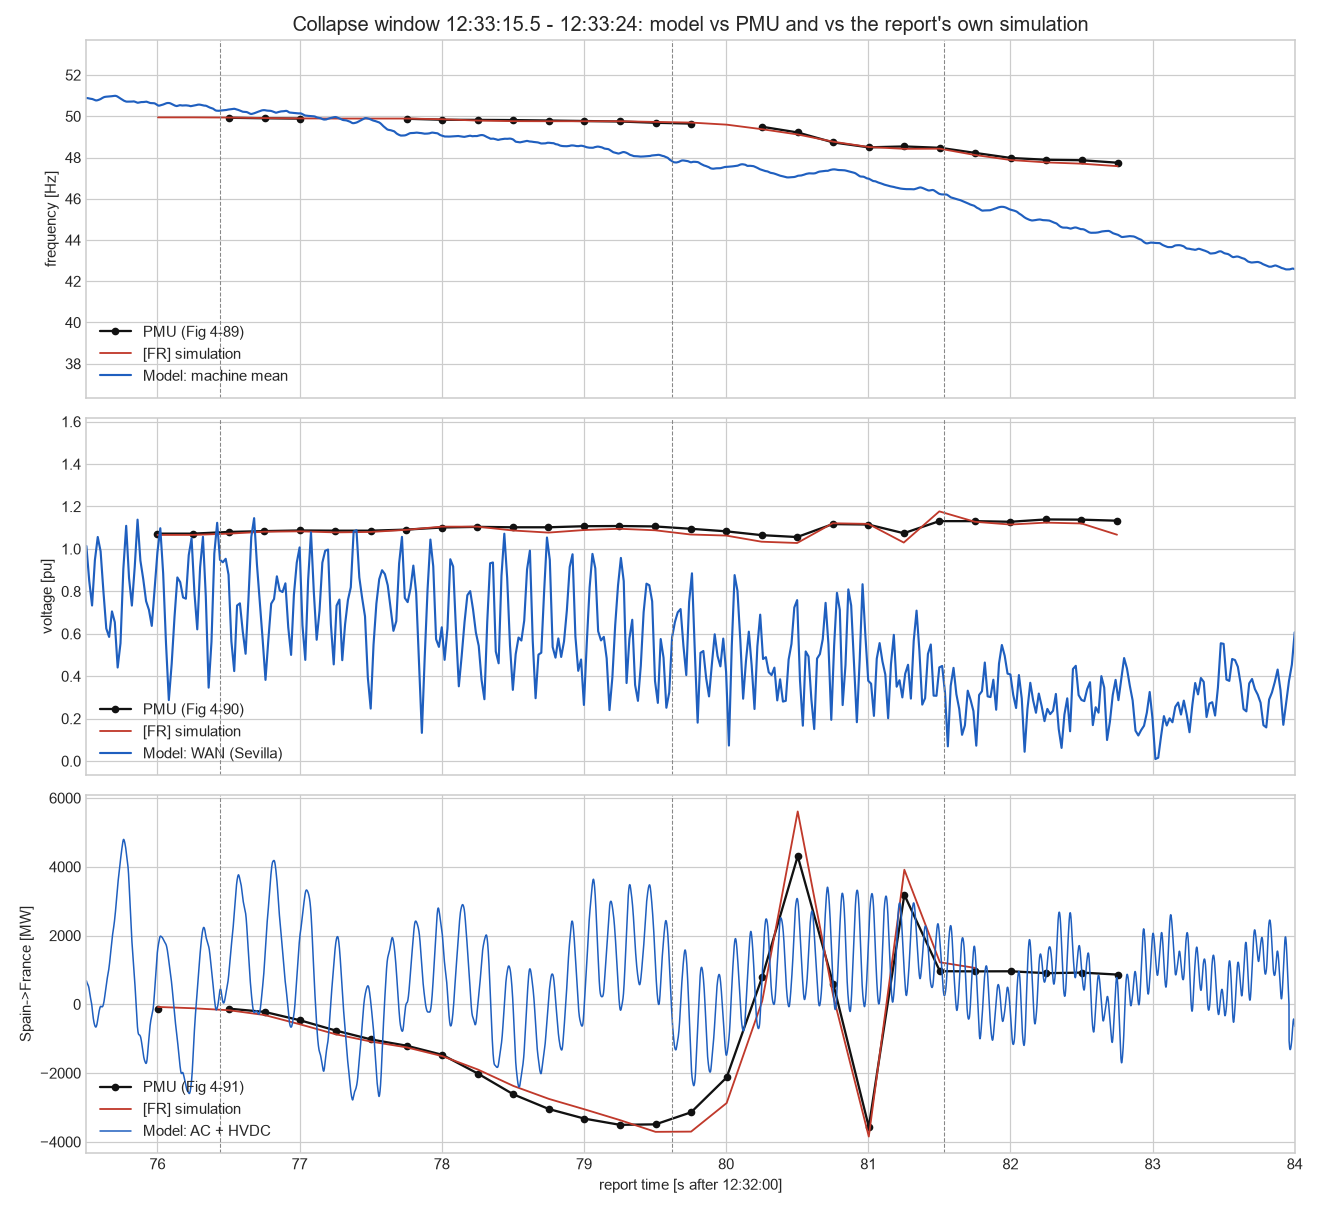
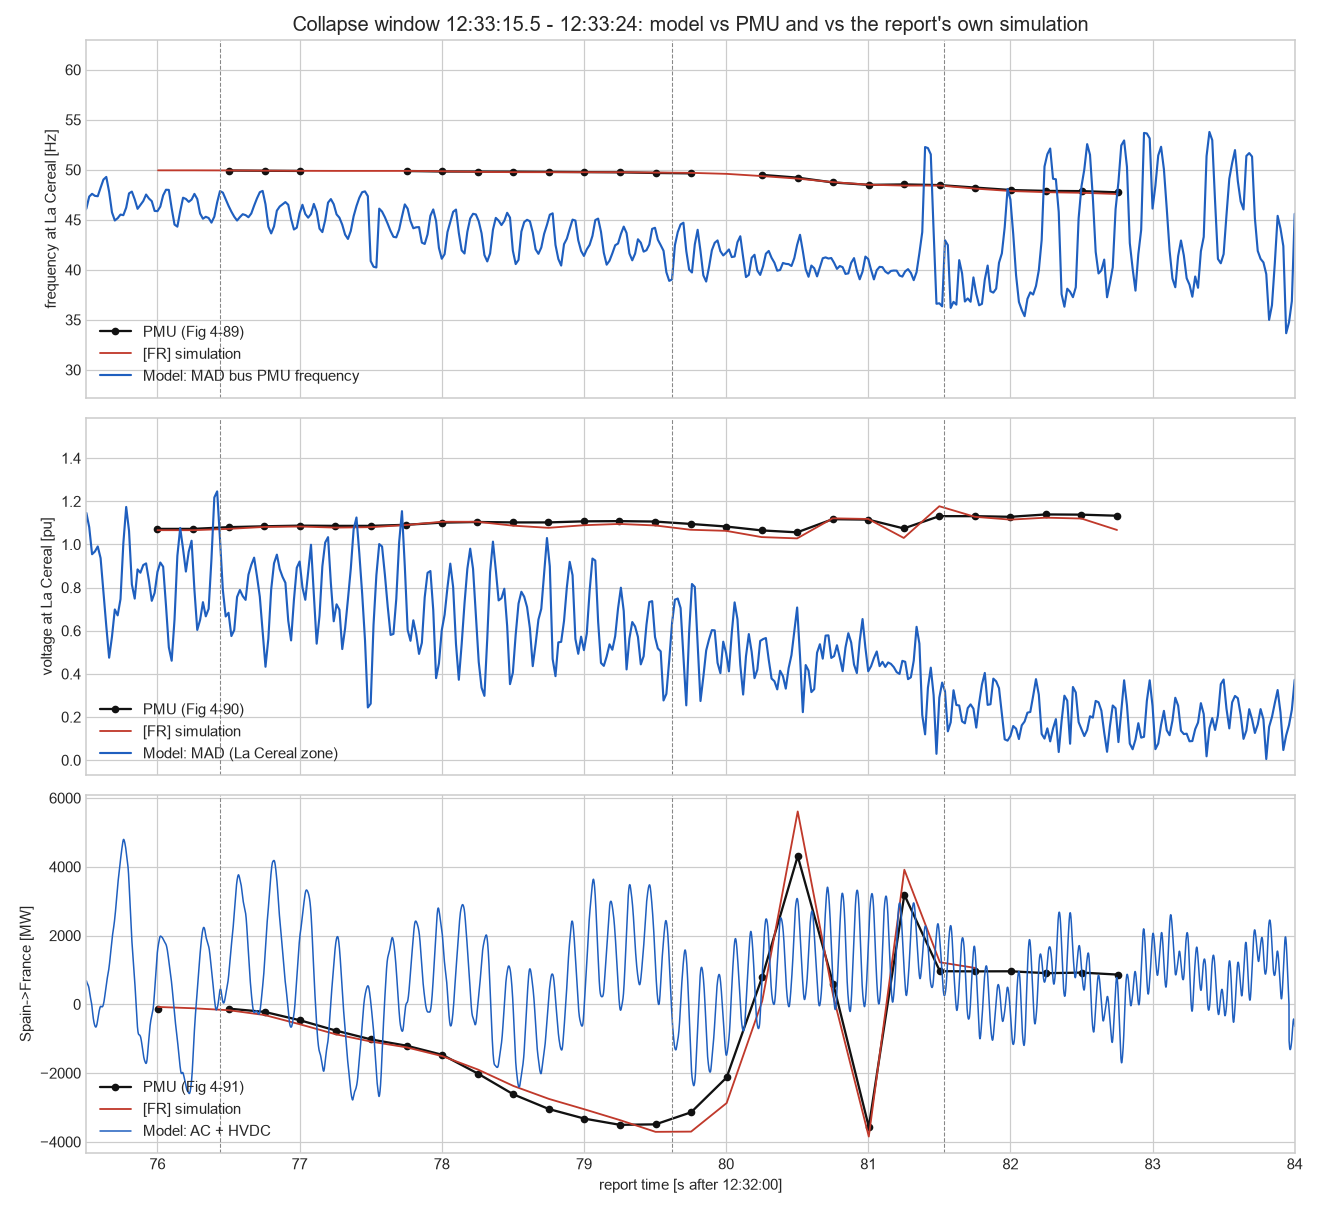
fidelity_v2: ascii in the primary-score line

diff --git a/iberia_eq/pscad/fidelity_v2.py b/iberia_eq/pscad/fidelity_v2.py
@@ -307,7 +307,7 @@ for tier, name, rows in SIG:
         if d and ph != "all": PS.setdefault(ph.split()[0], []).append(min(d["rmse"] / sc, 3.0))
 pss = "  ".join(f"{k} {np.mean(v):.2f}" for k, v in PS.items())
 ax[0].set_title(f"Signal fidelity per phase (P primary = system level, bold)\nPRIMARY SCORE (mean RMSE/tol, lower is better): {pss}", fontsize=10)
-M(f"\n**Primary score** (mean RMSE/tolerance of the system-level metrics, lower is better, ≤ 0.5 good, > 1 poor): {pss}")
+M(f"\n**Primary score** (mean RMSE/tolerance of the system-level metrics, lower is better, <= 0.5 good, > 1 poor): {pss}")
 seq_err = [abs(s["tmod"] - s["trep"]) for s in SEQ if np.isfinite(s["tmod"])]
 cats = ["plant trips\nreproduced", "defence-plan\nthresholds reached", "median |timing\nerror| [s]"]
 dpr = sum(np.isfinite(tm) for _, _, tm in DP[:7])

diff --git a/iberia_eq/pscad/fid_rp_cascade.md b/iberia_eq/pscad/fid_rp_cascade.md
@@ -134,3 +134,7 @@ Table 3-3 trips reproduced: 0 of 11
 | minimum frequency [Hz] | 47.408 | 37.137 |
 | maximum 400 kV voltage [kV] | 446.779 | 619.231 |
 | Carmona voltage at 12:32:56 [kV] | 426.915 | 419.621 |
+
+**Primary score** (mean RMSE/tolerance of the system-level metrics, lower is better, <= 0.5 good, > 1 poor): P0 0.36  P1 2.54  P2 3.00  P3 3.00
+
+figures: iberia_eq/pscad/figs/fid_rp_cascade_overview.png, _sequence.png, _collapse.png, _score.png
